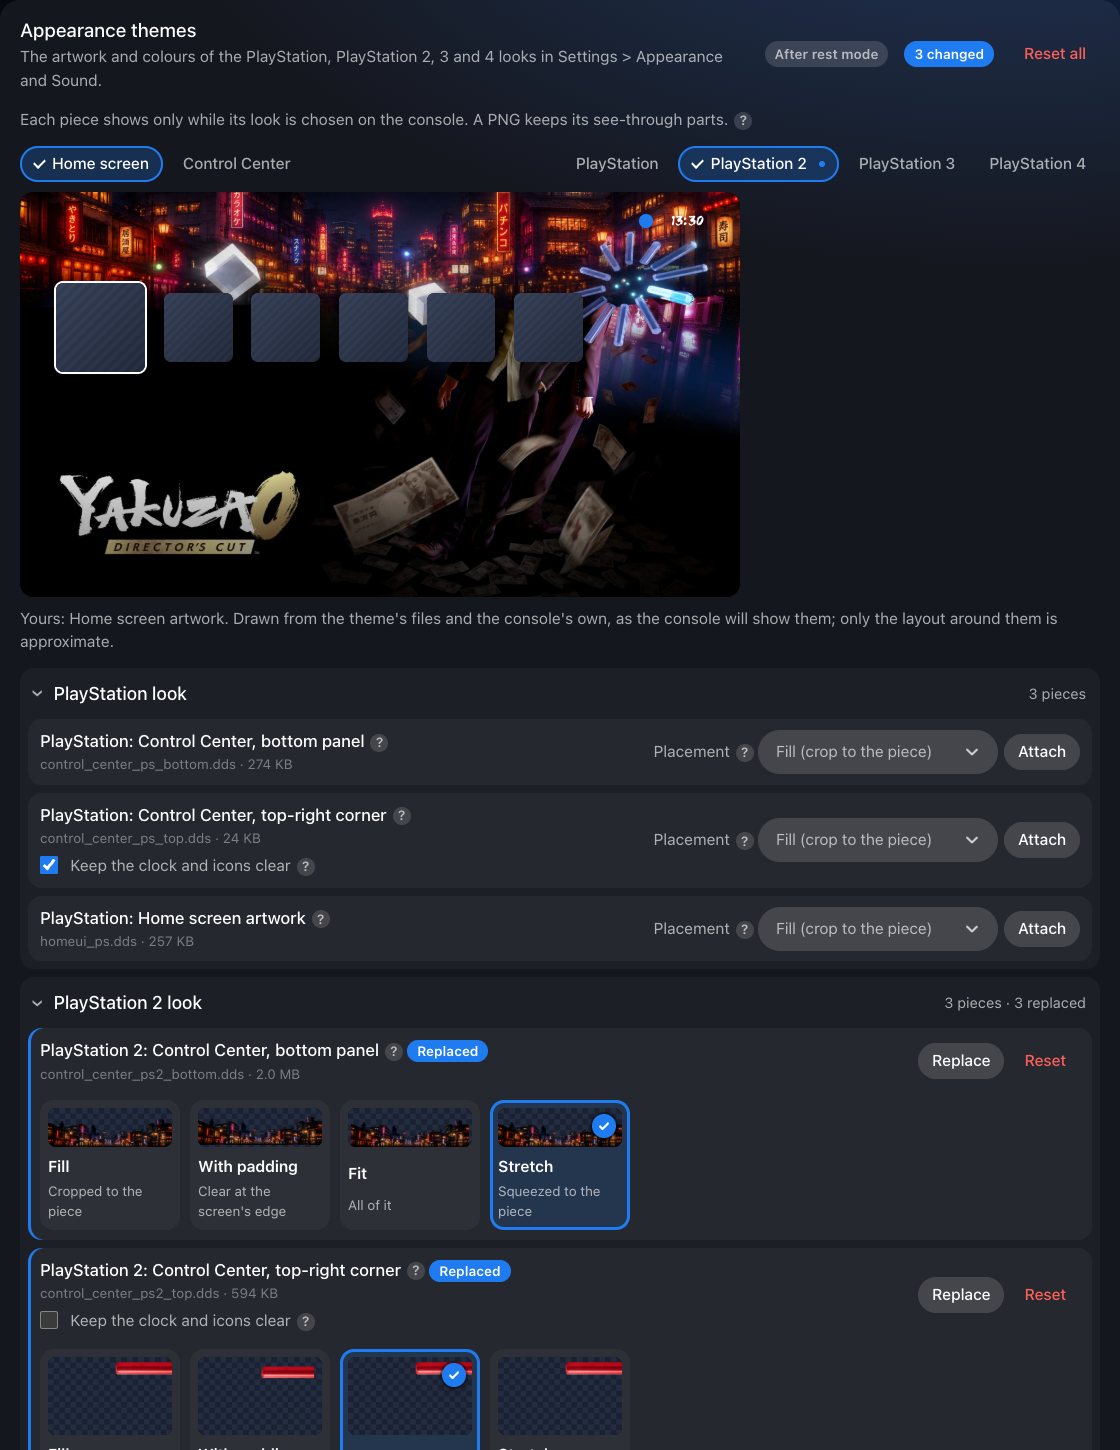
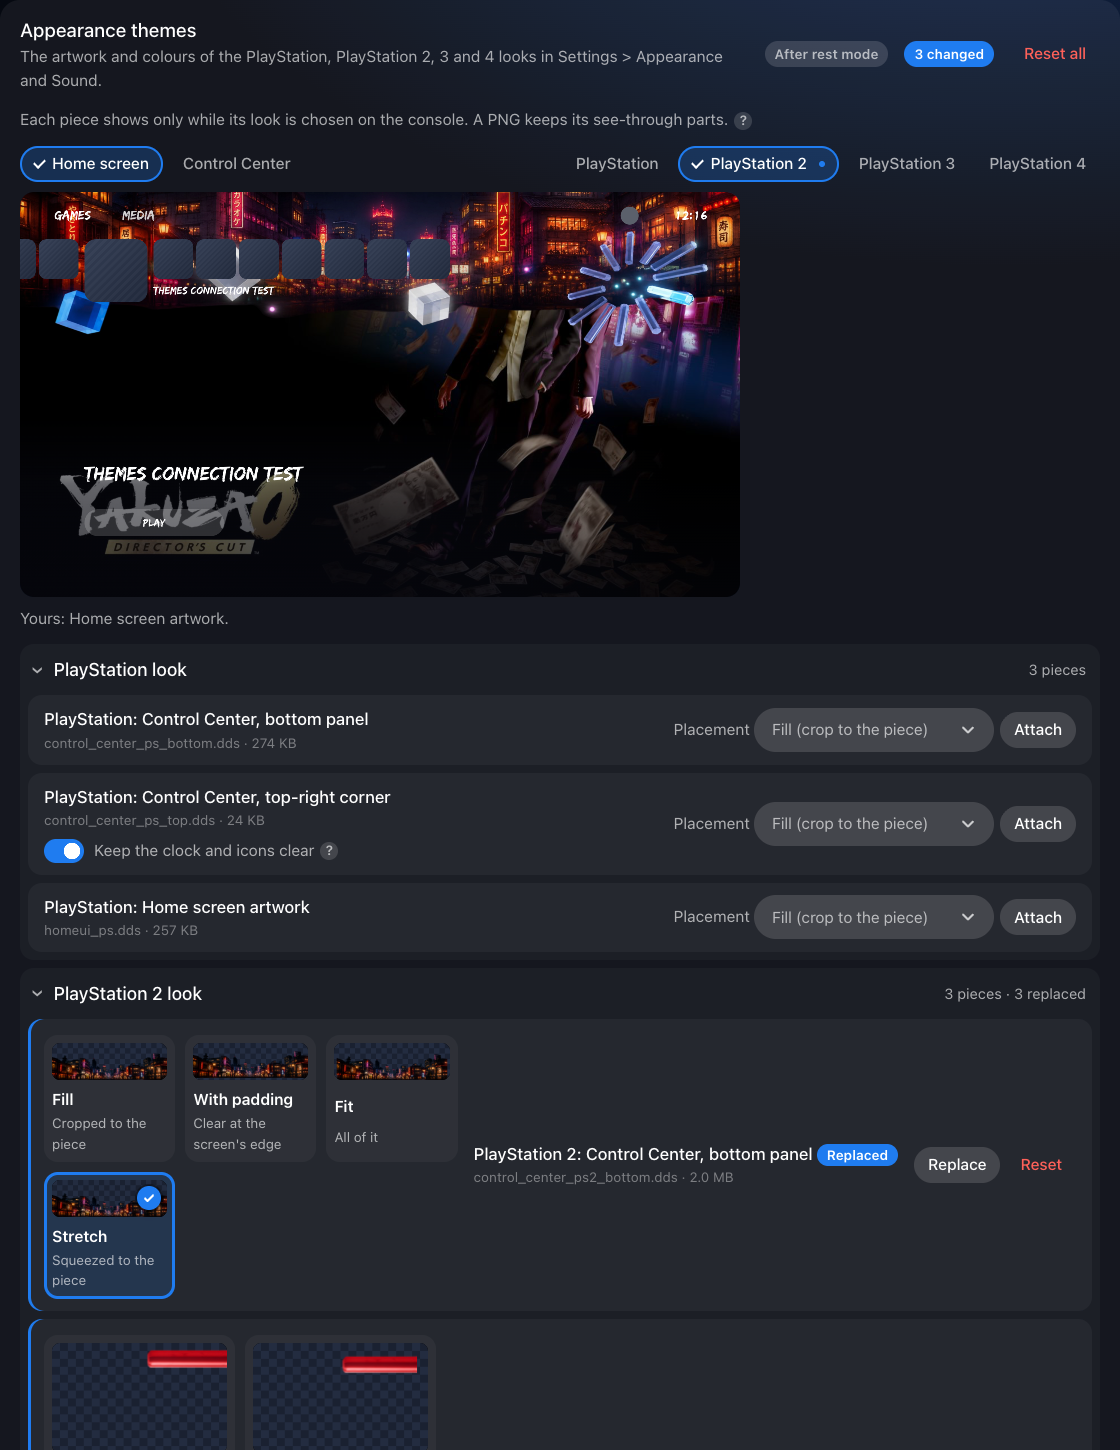
Screenshots for 1.91, and one of the Control Center preview
docshots takes the Control Center preview too, and leaves out log lines
naming an address on the network.

diff --git a/docs/manager.md b/docs/manager.md
@@ -248,6 +248,11 @@ theme's parts on the left, the part you're changing on the right.
 
 ![The Preview: the theme's background, Appearance artwork, font and icons drawn on a home screen](screenshots/preview.png)
 
+![The Preview's Control Center: the PlayStation 2 look's top-right piece and bottom panel over the darker home screen, with a Recently created card holding a screenshot of it](screenshots/preview-control-center.png)
+
+The console's own icons are left out of these two pictures (they are
+Sony's); on your console the preview draws them.
+
 ![Name and picture: name, firmware, the three ways a picture of another shape can go, each drawn on your own picture, and Keep original pictures with what the originals take](screenshots/manager-originals.png)
 
 A **?** beside a setting, a section or a file says what it changes: point at
